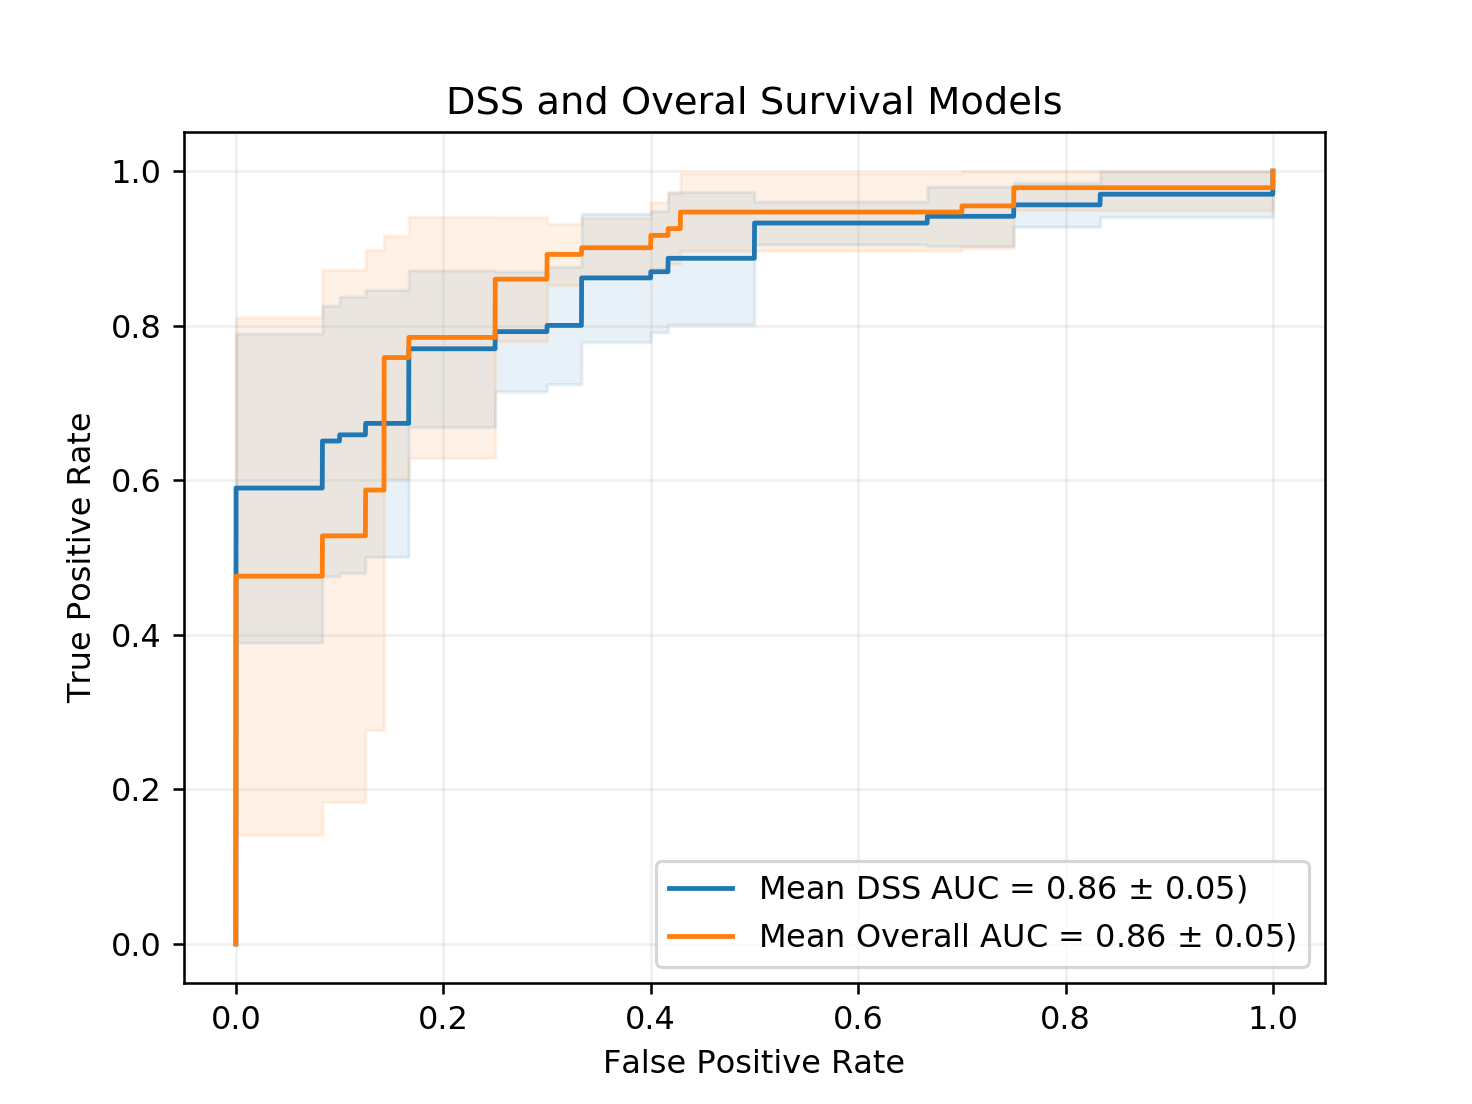
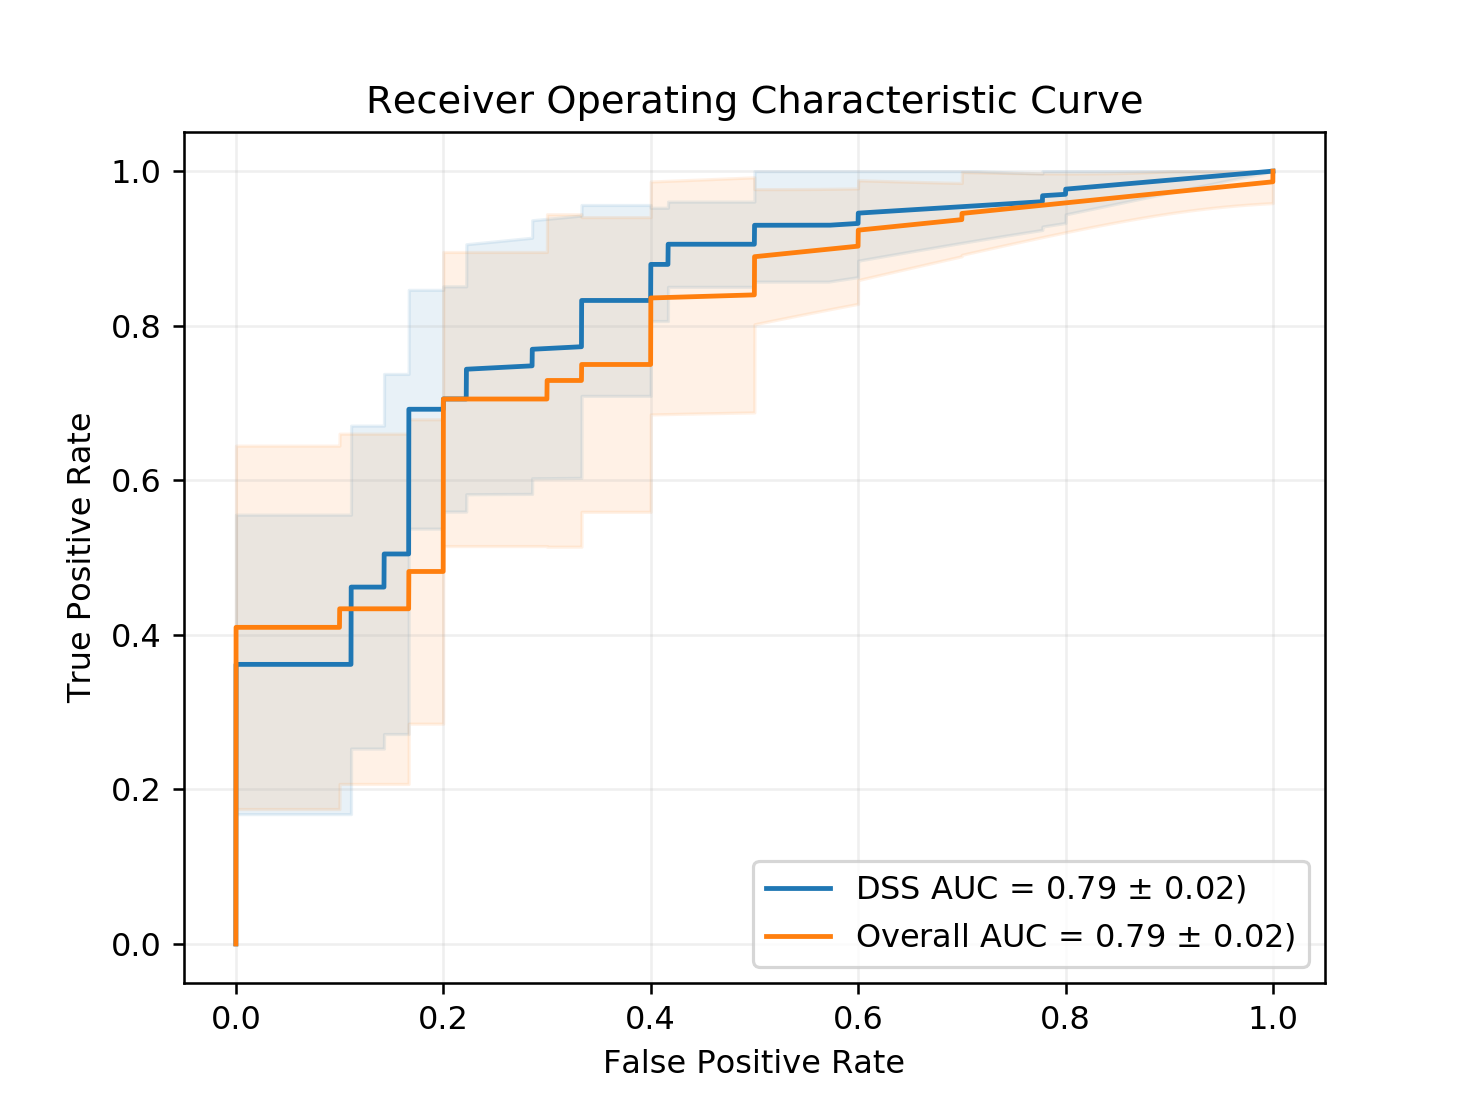
Beginning Calibration Implementation. Not Final

diff --git a/utils.py b/utils.py
@@ -5,7 +5,9 @@ from scipy import interp
 import torch.nn.functional as F
 import matplotlib.pyplot as plt
 from scipy.integrate import trapz
+from sklearn.calibration import calibration_curve
 from sklearn.metrics import roc_curve, roc_auc_score
+
 
 
 def train_and_test_set(data, labels, groups, i, k):
@@ -26,14 +28,14 @@ def train_and_test_set(data, labels, groups, i, k):
 
 	return spec_xtrain, spec_strain, spec_ptrain, spec_xtest, spec_stest, spec_ptest
 
-def Loss(pred, strain, prob, ptrain, stest, ptest, model, xtest, epoch, best):
+def Loss(pred, strain, prob, ptrain, stest, ptest, model, xtest, epoch, best, L1):
 
 	mse_scale = 1.0
 
 	mse  = F.mse_loss(pred, strain)/mse_scale
 	bce  = F.binary_cross_entropy(prob, ptrain)
 
-	loss  = mse + bce
+	loss  = mse + bce + L1*model.L1_Loss()
 
 	#Evaluate
 	if (epoch+1)%1 == 0:
@@ -65,7 +67,7 @@ def AUC(ytrain, ytest, prob, tprob):
 	return AUCtrain, AUCtest
 
 
-def AUCplot(spec_model, over_model, spec_xtest, over_xtest, yspec, yover, spec_rocs, over_rocs, k, K):
+def AUCplot(spec_model, over_model, spec_xtest, over_xtest, yspec, yover, spec_rocs, over_rocs, spec_cals, over_cals, k, K):
 
 	# Gather Probabilities from Models
 	spec_model.eval() # This turns off BatchNorm and Dropout, as will be done at deployment
@@ -75,19 +77,30 @@ def AUCplot(spec_model, over_model, spec_xtest, over_xtest, yspec, yover, spec_r
 	spec_model.train() #This turns BatchNorm and Dropout back on
 	over_model.train() #This turns BatchNorm and Dropout back on
 
-	# Generate ROC curves
+	# Generate ROC Curves
 	fpr_spec, tpr_spec, thresholds_spec = roc_curve(yspec.data.numpy(), probspec.data.numpy())
 	fpr_over, tpr_over, thresholds_over = roc_curve(yover.data.numpy(), probover.data.numpy())
 	spec_rocs.append([fpr_spec, tpr_spec])
 	over_rocs.append([fpr_over, tpr_over])
 
+	# Generate Calibration Curves
+	N = 4
+	spec_cal  = calibration_curve(yspec.data.numpy(), probspec.data.numpy(), n_bins=N)
+	over_cal  = calibration_curve(yspec.data.numpy(), probspec.data.numpy(), n_bins=N)
+	assert((len(spec_cal[1])==N) and (len(over_cal[1])==N))
+	spec_cals.append(spec_cal)
+	over_cals.append(over_cal)
+
+	# Compute AUC Scores
 	AUCspec = roc_auc_score(yspec.data.numpy(), probspec.data.numpy())
 	AUCover = roc_auc_score(yover.data.numpy(), probover.data.numpy())
 
+
+	# Plot k-th Model Performance (ROC)
 	plt.figure(0)
 	plt.clf()
-	plt.plot(fpr_spec, tpr_spec, label = f'Specific = {AUCspec:.2f}', alpha = 0.2)
-	plt.plot(fpr_over, tpr_over, label =  f'Overall = {AUCover:.2f}', alpha = 0.2)
+	plt.plot(fpr_spec, tpr_spec, label = f'Specific = {AUCspec:.2f}')#, alpha = 0.2)
+	plt.plot(fpr_over, tpr_over, label =  f'Overall = {AUCover:.2f}')#, alpha = 0.2)
 	if k == 0:
 		plt.plot([0,1],[0,1],'k-', alpha = 0.2)
 	plt.grid(alpha=0.2)
@@ -98,13 +111,12 @@ def AUCplot(spec_model, over_model, spec_xtest, over_xtest, yspec, yover, spec_r
 	plt.legend(title='AUC')
 	plt.savefig(f'ROCs/ROC_{k}.png')
 
+
 	if (k+1) == K:
+		# Plot Mean Model Performance (ROC)
 		mean_fpr = np.linspace(0,1,10000)
 
 		mean_spec_roc = []
-
-		mean_spec_roc = []
-
 
 		for ROC in spec_rocs:
    			 mean_spec_tpr = interp(mean_fpr, ROC[0], ROC[1])
@@ -173,16 +185,65 @@ def AUCplot(spec_model, over_model, spec_xtest, over_xtest, yspec, yover, spec_r
 		plt.savefig('Overall_Mean_ROC.png', dpi = 230)
 
 		both_fig, both_ax = plt.subplots()
-		both_ax.plot(mean_fpr, mean_spec_roc, color ='C0', label=f'Mean DSS AUC = {mean_auc:.2f} $\pm$ {std_auc:.2f})')
+		both_ax.plot(mean_fpr, mean_spec_roc, color ='C0', label=f'DSS AUC = {mean_auc:.2f} $\pm$ {std_auc:.2f})')
 		both_ax.fill_between(mean_fpr, spec_bot, spec_top, color='C0', alpha=.1)#, label=f'$\pm$ 1 DSS std')
-		both_ax.plot(mean_fpr, mean_over_roc, color ='C1', label=f'Mean Overall AUC = {mean_auc:.2f} $\pm$ {std_auc:.2f})')
+		both_ax.plot(mean_fpr, mean_over_roc, color ='C1', label=f'Overall AUC = {mean_auc:.2f} $\pm$ {std_auc:.2f})')
 		both_ax.fill_between(mean_fpr, over_bot, over_top, color='C1', alpha=.1)# label=f'$\pm$ 1 OVR std')
 		both_ax.grid(alpha=0.2)
 		both_ax.legend(loc=4)
 		both_ax.set_xlabel('False Positive Rate')
 		both_ax.set_ylabel('True Positive Rate')
-		both_ax.title.set_text("DSS and Overal Survival Models")
+		both_ax.title.set_text("Receiver Operating Characteristic Curve")
 		plt.savefig('Both_Mean_ROC.png', dpi = 230)
+
+
+
+
+		# Calibration Plot
+		pdb.set_trace()
+		both_calfig, both_calax = plt.subplots()
+		mean_spec_cal = np.mean([CAL[0] for CAL in spec_cals], axis=0)
+		std_spec_cal = np.std([CAL[0] for CAL in spec_cals], axis=0)
+		spec_top = np.minimum(mean_spec_cal + std_spec_cal, 1)
+		spec_bot = np.maximum(mean_spec_cal - std_spec_cal, 0)
+		spec_mbs = [np.polyfit(CAL[0], CAL[1], 1) for CAL in spec_cals]
+		spec_ms = [m[0] for m in spec_mbs]
+		spec_bs = [b[1] for b in spec_mbs]
+		spec_m_std = np.std(spec_ms)
+		spec_b_std = np.std(spec_bs)
+		spec_m_mean = np.mean(spec_ms)
+		spec_b_mean = np.mean(spec_bs)
+
+		both_calax.plot(spec_cals[0][1], mean_spec_cal)
+		both_calax.fill_between(spec_cals[0][1], spec_bot, spec_top, color='C0', alpha=.1)#, label=f'$\pm$ 1 DSS std')
+		both_calax.plot([0, 1], [0, 1], 'r--')
+		both_calax.grid(alpha=0.2)
+		both_calax.legend(loc=4)
+		both_calax.set_xlabel('Predicted Probability')
+		both_calax.set_ylabel('Observed Population')
+		both_calax.title.set_text("Calibration Curve")
+		plt.savefig("BothCalibration.png", dpi=230)
+
+		#for CAL in spec_cals:
+   		#	 mean_spec_cal = interp(mean_fpr, ROC[0], ROC[1])
+   		#	 mean_spec_tpr[0] = 0.0
+   		#	 mean_spec_roc.append(mean_over_tpr)
+
+		#mean_over_roc = np.array(mean_over_roc)
+		#std_tpr = np.std(mean_over_roc, axis=0)
+		#mean_over_roc = np.mean(mean_over_roc, axis=0)
+		#mean_over_roc[-1] = 1.0
+
+
+
+		over_top = np.minimum(mean_over_roc + std_tpr, 1) 
+		over_bot = np.maximum(mean_over_roc - std_tpr, 0) 
+
+		
+		mean_auc = trapz(mean_over_roc, mean_fpr)
+		aucs = [trapz(ROC[1], ROC[0]) for ROC in spec_rocs]
+		std_auc = np.std(aucs)
+		
 
 
 
@@ -192,7 +253,7 @@ def AUCplot(spec_model, over_model, spec_xtest, over_xtest, yspec, yover, spec_r
 
 	print(f'\n\nGenerated Specific vs Overall ROC plot for test set #{k} using lastest models in ./ROCs/\n\n')
 
-	return spec_rocs, over_rocs
+	return spec_rocs, over_rocs, spec_cals, over_cals
 
 
 

diff --git a/train.py b/train.py
@@ -9,20 +9,26 @@ from utils import *
 
 # Training Parameters
 k = 5				# Groups for k-fold validation
-width = 256 		# Width of model
+width = 512 		# Width of model
 epochs = 5000		# Training epochs for each fold
-L1 = 1e-4
+L2 = 1e-3
+L1 = 1e-3
 
+#width = 128 		# Width of model
+#epochs = 1000		# Training epochs for each fold
 
 # Loading preprocessed data and splitting
 Data = np.load("Data.npz")
 Data, spec, over, IDs = torch.Tensor(Data['Data']), torch.Tensor(Data['spec']), torch.Tensor(Data['over']), Data['IDs']
 groups1 = torch.chunk(torch.randperm(len(IDs)), k)
-groups2 = groups1 #torch.chunk(torch.randperm(len(IDs)), k)
+#groups2 = groups1 #torch.chunk(torch.randperm(len(IDs)), k)
+groups2 = torch.chunk(torch.randperm(len(IDs)), k)
 
-# Lists for collecting ROCs
+# Lists for collecting ROCs and Calibration Curves
 spec_rocs = []
+spec_cals = []
 over_rocs = []
+over_cals = []
 
 # K-fold validation
 for i in range(k):
@@ -33,7 +39,7 @@ for i in range(k):
 	over_model = copy.deepcopy(spec_model)
 	over_optim = torch.optim.Adam(over_model.parameters(), lr = 3e-4, weight_decay = L1)
 
-	# Specific train/test set
+	# Build Specific train/test set
 	spec_xtrain, spec_strain, spec_ptrain, spec_xtest, spec_stest, spec_ptest = train_and_test_set(Data, spec, groups1, i, k)
 	best_spec = 0
 
@@ -45,7 +51,7 @@ for i in range(k):
 		spec_prob, spec_pred = spec_model(spec_xtrain)
 		
 		# Compute loss
-		spec_loss, spec_tauc = Loss(spec_pred, spec_strain, spec_prob, spec_ptrain, spec_stest, spec_ptest, spec_model, spec_xtest, epoch, best_spec)
+		spec_loss, spec_tauc = Loss(spec_pred, spec_strain, spec_prob, spec_ptrain, spec_stest, spec_ptest, spec_model, spec_xtest, epoch, best_spec, L1)
 		if spec_tauc > best_spec:
 			#print("New Best Specific")
 			best_spec = spec_tauc
@@ -59,21 +65,21 @@ for i in range(k):
 		
 		
 
-	# Build train/test set and train
+	# Build Overall train/test set and train
 
 	over_xtrain, over_strain, over_ptrain, over_xtest, over_stest, over_ptest = train_and_test_set(Data, over, groups2, i, k)
 
 	#over_model = Model(width)
 	best_over = 0
 
-	print(f'Training Overall Survival Model #{i} ')
+	print(f'Training Overall Survival Model #{i}')
 	for epoch in range(epochs):
 
 		# Gather output for train and test set
 		over_prob, over_pred = over_model(over_xtrain)
 
 		# Compute loss
-		over_loss, over_tauc = Loss(over_pred, over_strain, over_prob, over_ptrain, over_stest, over_ptest, over_model, over_xtest, epoch, best_over)
+		over_loss, over_tauc = Loss(over_pred, over_strain, over_prob, over_ptrain, over_stest, over_ptest, over_model, over_xtest, epoch, best_over, L1)
 		if over_tauc > best_over:
 			#print("New Best Overall")
 			best_over = over_tauc
@@ -86,7 +92,7 @@ for i in range(k):
 	print(f'Best Overall Model has test AUC = {best_over:.3f}')
 
 
-	spec_rocs, over_rocs = AUCplot(best_spec_model, best_over_model, spec_xtest, over_xtest, spec_ptest, over_ptest, spec_rocs, over_rocs, i, k)
+	spec_rocs, over_rocs, spec_cals, over_cals = AUCplot(best_spec_model, best_over_model, spec_xtest, over_xtest, spec_ptest, over_ptest, spec_rocs, over_rocs, spec_cals, over_cals, i, k)
 
 
 

diff --git a/model.py b/model.py
@@ -10,6 +10,8 @@ def SoftLeaky(x, n):
 	slow = 10
 	return F.leaky_relu(x, 1/(n/slow+1))
 
+
+
 class Model(nn.Module):
 
 	def __init__(self, width, features = 9):
@@ -47,9 +49,17 @@ class Model(nn.Module):
 		x = self.trunk(x)
 
 		#prob = SoftClamp(self.prob(x), self.iter)
-		prob = torch.sigmoid(self.prob(x))
-		pred = SoftLeaky(self.pred(x), self.iter)
+		#prob = torch.sigmoid(self.prob(x))[:,0]
+		prob = self.prob(x)[:,0].clamp(0,1)
+		pred = SoftLeaky(self.pred(x), self.iter)[:,0]
 
 		self.iter += 1
 
-		return prob[:,0], pred[:,0]
+		return prob, pred
+
+
+	def L1_Loss(self):
+		L1_loss = 0
+		for param in self.parameters():
+			L1_loss += torch.sum(torch.abs(param))
+		return L1_loss
